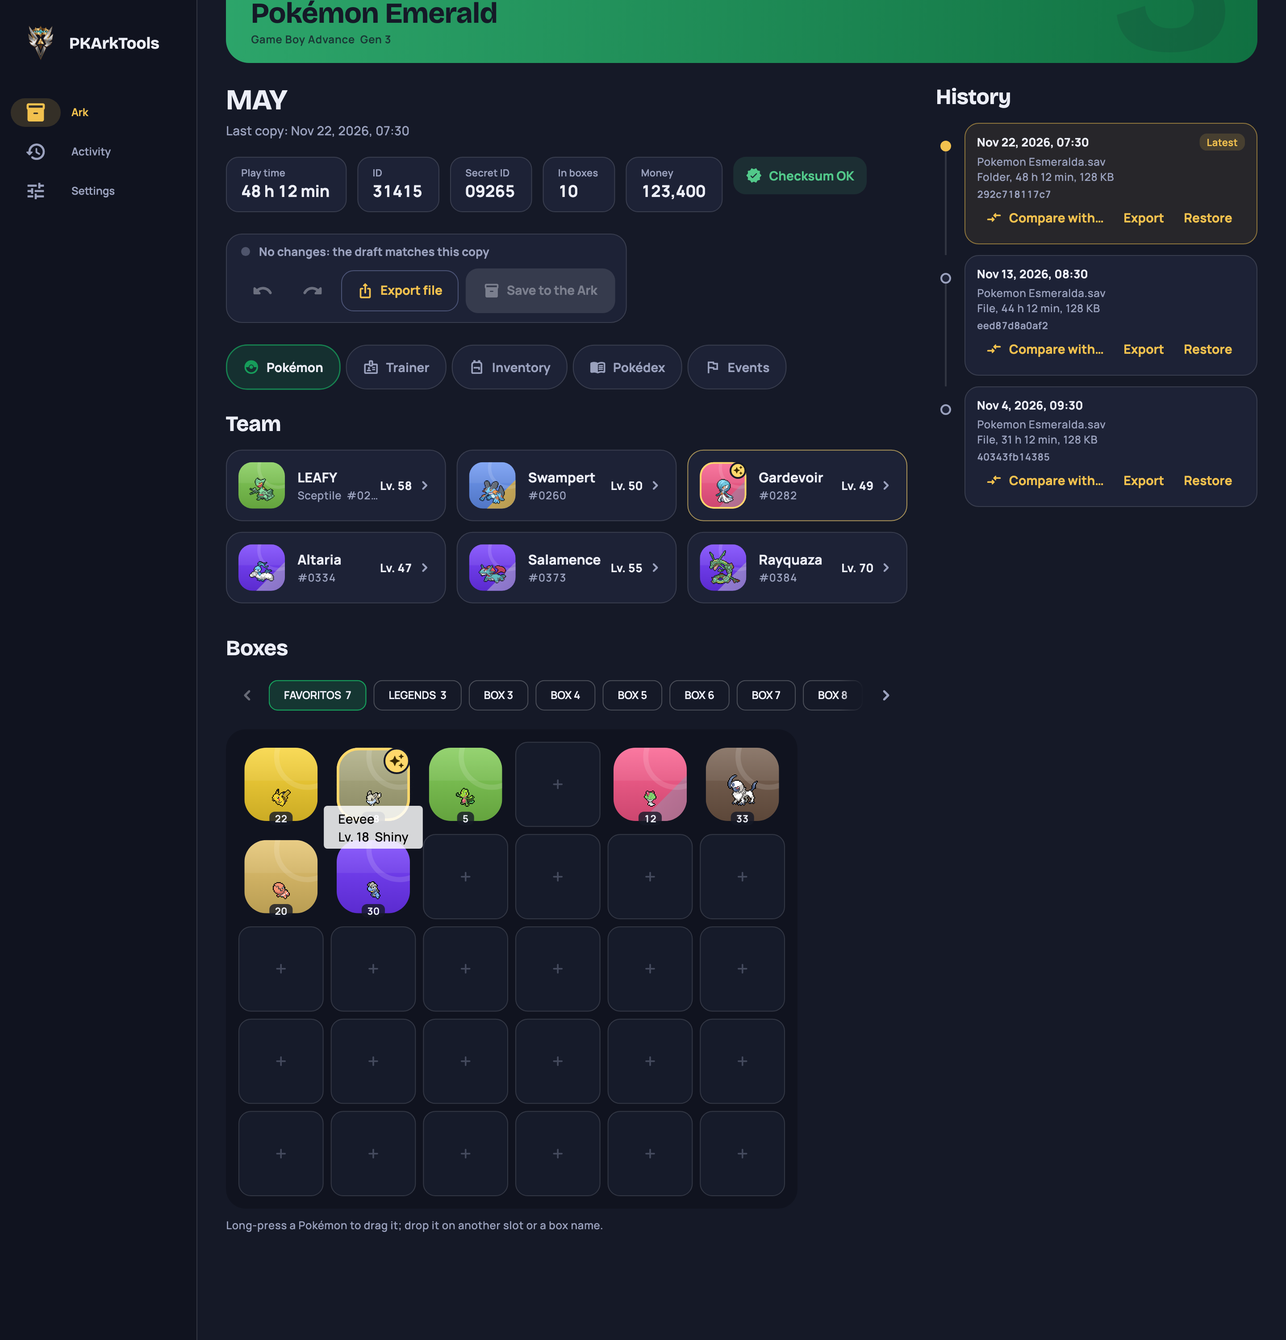
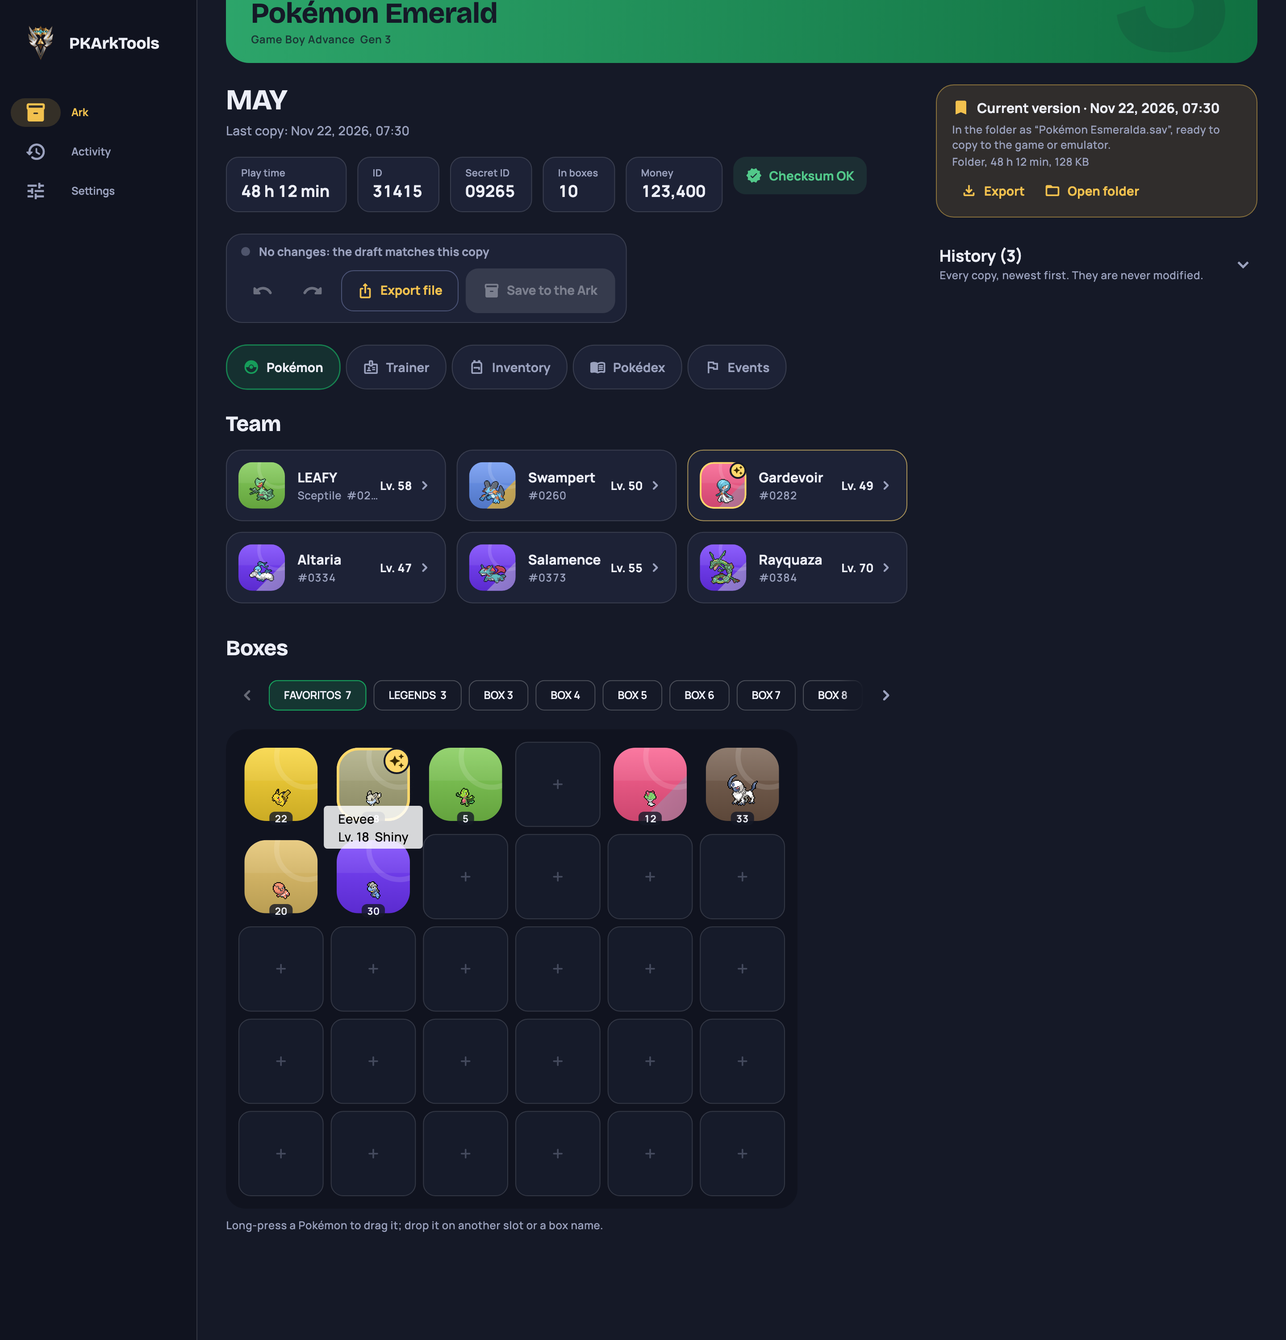
Docs: estructura del Arca con última versión e historial, carpetas de juegos y bandeja
Guía del Arca (la carpeta por dentro, tabla de nombres por juego, bandeja
de entrada, restaurar), primeros pasos con el paso opcional de carpetas de
juegos, arquitectura, seguridad de datos, READMEs y CHANGELOG (Unreleased).
Capturas en inglés regeneradas offscreen y en el emulador headless.

diff --git a/docs/usuario/arca.md b/docs/usuario/arca.md
@@ -61,15 +61,30 @@ origen, cintas).
   <img src="../screenshots/ios/v2_pro_05_ficha_iconos.png" width="160" alt="Ficha en iPhone">
 </p>
 
-## Historial
+## Versión actual e historial
 
-Cada importación, edición guardada o restauración crea una **copia nueva e
-inmutable** con fecha, origen (importación, edición, restauración) y una nota
-opcional. Desde el historial puedes, para cada copia:
+En la ficha de la partida, arriba (en el teléfono, antes del equipo; en
+escritorio, en la columna derecha) está la **versión actual**: «Versión actual
+· <fecha>», con el nombre del archivo que la contiene en la carpeta y dos
+botones:
 
-* **Exportar archivo**: escribe un archivo listo para el juego o el emulador
-  conservando su contenedor. Antes de entregarlo se relee y se compara
+* **Exportar** escribe ese archivo con el nombre que espera el juego (`main`,
+  `Pokémon Esmeralda.sav`…). Antes de entregarlo se relee y se compara
   (checksums, entrenador, equipo, cajas, inventario, Pokédex y eventos).
+* **Abrir carpeta** abre la carpeta de la partida en el explorador (escritorio)
+  o muestra su ruta dentro del Arca para copiarla (Android, iPhone).
+
+<p>
+  <img src="../screenshots/v2/mac_42_version_actual.png" width="560" alt="Versión actual destacada y historial plegado">
+  <img src="../screenshots/android/v2_42_version_actual.png" width="180" alt="Versión actual en Android">
+</p>
+
+Debajo, **plegado**, el **Historial (N)**: cada importación, edición guardada
+o restauración es una **copia nueva e inmutable** con fecha, origen
+(importación, edición, bandeja de entrada, restaurada…) y una nota opcional.
+Para cada copia:
+
+* **Exportar**: el archivo de esa copia, con su fecha en el nombre.
 * **Restaurar**: ver más abajo.
 * **Comparar con…**: ver más abajo.
 
@@ -91,10 +106,77 @@ después) o se movieron de hueco, inventario y Pokédex.
 
 ## Restaurar
 
-**Restaurar** escribe la copia elegida en la **ubicación original** del save
-(la carpeta de la que se importó, si la app conserva el permiso). Antes de
-escribir, el archivo que hay en ese sitio **se guarda primero en el Arca**, así
-que restaurar nunca pierde datos.
+**Restaurar** convierte una copia antigua en la versión actual: crea una
+**entrada nueva** en el historial con su contenido (origen «Restaurada» y una
+nota con la fecha de la copia original) y actualiza el archivo de la última
+versión. El historial nunca se reescribe: puedes volver a cualquier punto.
+
+Si la copia se importó de un sitio al que la app aún tiene acceso, el diálogo
+ofrece además **Restaurar y escribir en el original**: antes de escribir ahí,
+lo que haya en ese sitio **se guarda primero en el Arca**, así que nunca se
+pierde nada.
+
+## La carpeta por dentro
+
+```
+PKArkTools/<Juego>/<Entrenador (TID)>/
+  main                      ← ÚLTIMA versión, con el nombre que usa el juego
+  ultima.json               ← qué copia del historial es la última (derivado)
+  historial/
+    2026-11-22_175258_a1fa22cf.sav   (+ .json)   ← todas las copias, inmutables
+```
+
+* **El historial es la fuente de verdad.** El archivo de la última versión es
+  una copia derivada: se escribe de forma atómica (temporal + renombrar) cada
+  vez que entra una copia más nueva, y si falta o se queda atrás se regenera
+  desde el historial al reindexar.
+* **Nombre por juego.** Es el nombre con el que Checkpoint/JKSM y los
+  emuladores esperan el save:
+
+  | Juego | Archivo de la última versión |
+  |---|---|
+  | Espada/Escudo, Leyendas Arceus, Escarlata/Púrpura, Leyendas Z-A | `main` |
+  | Diamante Brillante / Perla Reluciente | `SaveData.bin` |
+  | Let's Go, Pikachu! / Eevee! | `savedata.bin` |
+  | X/Y, Rubí Omega/Zafiro Alfa, Sol/Luna, Ultrasol/Ultraluna (3DS) | `main` |
+  | Game Boy, GBA y DS | `<Juego>.<ext>`: `.sav`, o el contenedor original si es `.dsv` (DeSmuME/DraStic), `.srm` (RetroArch), `.sa1`, `.fla`, `.dat` o `.bin` |
+
+  Si un mismo entrenador tiene copias de contenedores distintos (por ejemplo
+  `.sav` de melonDS y `.dsv` de DeSmuME), cada uno tiene su archivo.
+* **Si reemplazas el archivo a mano** (por ejemplo, copias encima el `main`
+  recién sacado de la consola), la app lo detecta al reindexar porque su
+  SHA-256 no está en el historial: la ficha muestra «El archivo principal
+  cambió fuera de la app» con **Guardar como nueva copia**, que lo pasa al
+  historial como versión actual. Hasta entonces la app no lo toca; nunca lo
+  borra. La lista también está en **Ajustes › Carpeta del Arca**.
+* **Varios dispositivos.** El historial no choca (nombres únicos). La última
+  versión se recalcula desde la copia más nueva; si otro dispositivo ya
+  escribió una más nueva cuyo historial aún no ha llegado, se espera sin tocar
+  nada. Las «copias en conflicto» del archivo (`main (1)`, `conflicted copy`,
+  `.icloud`) se retiran solas si su contenido está en el historial; si no, se
+  ofrecen para adoptar.
+
+## Bandeja de entrada
+
+Cada carpeta de juego (`PKArkTools/<Juego>/`, creada por la app o a mano con
+el mismo nombre) es una bandeja de entrada. Deja ahí un save suelto, sin
+renombrarlo, y al abrir la app, al volver a ella, al reindexar o (en
+escritorio) en cuanto aparece:
+
+1. Se comprueba que es un save de **ese juego**.
+2. Se guarda como **copia nueva** en `<Entrenador (TID)>/historial/` (origen
+   «Bandeja de entrada») y pasa a ser la **última versión**.
+3. Con la copia verificada por su SHA-256, el archivo suelto **se retira** de
+   la bandeja (se mueve, no se copia). Si ese contenido ya estaba en el
+   historial, la bandeja se vacía sin crear otra copia.
+
+Un archivo que aún se está copiando o sincronizando espera unos segundos; los
+temporales y marcadores de la nube (`.tmp`, `.icloud`…) se ignoran. Si el save
+**no se puede leer**, o es **de otro juego**, se queda donde está y la app lo
+avisa (y en **Ajustes › Carpeta del Arca › Bandeja de entrada**, con **Mover a
+<juego>** para el segundo caso).
+
+<img src="../screenshots/v2/mac_43_ajustes_arca.png" width="560" alt="Ajustes del Arca: estructura, bandeja y principales cambiados">
 
 ## Exportar y restaurar el Arca completa (zip)
 
@@ -115,8 +197,8 @@ emulador no se tocan. Si quieres conservarlas, exporta antes el zip del Arca.
 
 ## Saves sueltos en la carpeta
 
-Si copias un save a mano en cualquier subcarpeta del Arca, Ajustes lo ofrece
-para **Adoptar**: se detecta el juego, se coloca en su sitio con su `.json`, se
+Si copias un save a mano en otra subcarpeta del Arca (fuera de la bandeja de
+un juego), Ajustes lo ofrece para **Adoptar**: se detecta el juego, se coloca en su sitio con su `.json`, se
 verifica y solo entonces se retira el suelto. **Adoptar todos** hace lo mismo
 con todos.
 

diff --git a/docs/usuario/primeros-pasos.md b/docs/usuario/primeros-pasos.md
@@ -8,11 +8,23 @@ ahí como archivos normales, legibles sin la app:
 ```
 <carpeta elegida>/PKArkTools/
   README.txt                                   explica la estructura
-  Pokémon Esmeralda/MAY (12345)/
-    2026-11-20_183042_3fa9c2d1.sav             la copia, byte a byte
-    2026-11-20_183042_3fa9c2d1.sav.json        SHA-256, juego, entrenador, TID/SID,
+  Pokémon Esmeralda/                           carpeta del juego (y bandeja de entrada)
+    LEEME.txt                                  qué save dejar aquí (opcional)
+    MAY (12345)/
+      Pokémon Esmeralda.sav                    LA ÚLTIMA VERSIÓN, lista para el juego
+      ultima.json                              qué copia del historial es la última
+      historial/
+        2026-11-20_183042_3fa9c2d1.sav         cada copia, byte a byte (inmutable)
+        2026-11-20_183042_3fa9c2d1.sav.json    SHA-256, juego, entrenador, TID/SID,
                                                horas, origen, notas, dispositivo
 ```
+
+En cada carpeta de entrenador, **el archivo de arriba es siempre la última
+versión** con el nombre que espera el juego (`main` en Switch y 3DS,
+`SaveData.bin` en Diamante Brillante / Perla Reluciente, `savedata.bin` en
+Let's Go, `<Juego>.sav` / `.dsv` / `.srm`… en GB, GBA y DS): cópialo tal cual
+al juego o al emulador. Todo lo anterior queda en `historial/`. Más detalles en
+[El Arca › La carpeta por dentro](arca.md#la-carpeta-por-dentro).
 
 <p>
   <img src="../screenshots/v2/mac_01_onboarding_logo.png" width="640" alt="Bienvenida en escritorio">
@@ -34,14 +46,41 @@ ahí como archivos normales, legibles sin la app:
   <img src="../screenshots/33_cambiar_carpeta.png" width="380" alt="Cambiar de carpeta: mover o copiar">
 </p>
 
-## 2. Varios dispositivos
+## 2. Carpetas de tus juegos (opcional)
+
+Justo después de elegir la carpeta, la app pregunta **«¿Quieres crear las
+carpetas de tus juegos?»**, para que sepas dónde dejar cada save:
+
+* **Sí, todos los juegos** crea `PKArkTools/<Juego>/` para todos los juegos
+  soportados, cada una con un `LEEME.txt` corto que dice qué archivo dejar y
+  con qué nombre suele venir (Switch: `main` de JKSM/Checkpoint o del
+  emulador; 3DS: `main` de Checkpoint; DS: `.sav`/`.dsv`; GBA: `.sav`).
+* **Elegir juegos…** abre un selector con casillas: todos, ninguno, los que ya
+  tienes en el Arca, por plataforma o por generación.
+* **Ahora no** no crea nada y no vuelve a preguntar. Puedes hacerlo cuando
+  quieras en **Ajustes › Carpeta del Arca › Crear carpetas de juegos**.
+
+<p>
+  <img src="../screenshots/v2/mac_40_carpetas_juegos_pregunta.png" width="420" alt="Pregunta: crear las carpetas de los juegos">
+  <img src="../screenshots/v2/mac_41_carpetas_juegos_selector.png" width="420" alt="Selector de carpetas de juegos">
+</p>
+
+Las carpetas de juego son también una **bandeja de entrada**: deja un save
+suelto en `PKArkTools/<Juego>/` (sin renombrarlo) y al abrir la app se recoge
+solo. Ver [El Arca › Bandeja de entrada](arca.md#bandeja-de-entrada).
+
+## 3. Varios dispositivos
 
 No hay cuentas ni inicio de sesión. Si la carpeta del Arca está en un servicio
 que sincroniza (iCloud Drive, Google Drive, OneDrive, Dropbox, Syncthing…),
 todos tus dispositivos comparten el mismo Arca:
 
-* Cada copia es un archivo con nombre único (fecha + hash) que **nunca se
-  sobrescribe**, así que dos dispositivos no pueden pisarse.
+* Cada copia del historial es un archivo con nombre único (fecha + hash) que
+  **nunca se sobrescribe**, así que dos dispositivos no pueden pisarse. El
+  archivo de la última versión se recalcula desde el historial: si dos
+  dispositivos lo escriben a la vez, gana la copia más nueva y las «copias en
+  conflicto» que deje la nube (`main (1)`…) se retiran solas si su contenido ya
+  está en el historial.
 * Al abrir la app y al volver a primer plano se revisa la carpeta
   (reindexado incremental). En escritorio, además, se vigilan los cambios.
   También puedes pulsar **Ajustes › Reindexar**.
@@ -52,7 +91,7 @@ todos tus dispositivos comparten el mismo Arca:
 Sugerencias por plataforma: Android → Google Drive o Documentos; iOS/macOS →
 iCloud Drive; Windows → OneDrive; Linux → Syncthing.
 
-## 3. Prueba con partidas de ejemplo
+## 4. Prueba con partidas de ejemplo
 
 Con el Arca vacía (o desde Ajustes) pulsa **Probar con partidas de ejemplo**:
 se crean saves sintéticos válidos de varias generaciones, sin datos reales ni
@@ -60,7 +99,7 @@ contenido con copyright. Es la forma más rápida de ver el editor.
 
 <img src="../screenshots/09_arca_vacia.png" width="480" alt="Arca vacía con partidas de ejemplo">
 
-## 4. Si se pierde el acceso a la carpeta
+## 5. Si se pierde el acceso a la carpeta
 
 Si el sistema retira el permiso (bookmark caducado, permiso revocado en Ajustes
 del sistema, unidad desconectada), la app muestra una pantalla para
@@ -69,11 +108,17 @@ se borra nada.
 
 <img src="../screenshots/34_acceso_perdido.png" width="380" alt="Acceso perdido a la carpeta">
 
-## 5. Versiones anteriores
+## 6. Versiones anteriores
 
 Si usabas una versión con el Arca interna (SQLite + blobs en
 `Documentos/PKArkTools/arca`), la app la copia a la carpeta elegida
 conservando fechas, orígenes y notas. Solo si todas las copias se verifican,
 la carpeta antigua se aparta a `.arca-anterior` (no se borra).
+
+Si tu carpeta del Arca es de PKArkTools 0.1.0 (copias sueltas
+`fecha_hash.sav` en la carpeta del entrenador), al abrirla la app las **mueve
+solas a `historial/`** y genera el archivo de la última versión. Cada copia se
+verifica por SHA-256 antes de retirar la original; si se corta a mitad, la
+siguiente vez termina el trabajo sin duplicar ni perder nada.
 
 Siguiente: [Importar saves](importar.md).

diff --git a/docs/arquitectura.md b/docs/arquitectura.md
@@ -84,16 +84,27 @@ reconstruir.
 
 | Clase (`lib/data/folder/`) | Papel |
 |---|---|
-| `ArcaLayout` | Nombres y rutas: `<Juego>/<Entrenador (TID)>/<fecha>_<hora>_<sha8>.<ext>` + `.json`, patrones de copias gestionadas, conflictos de nube e ignorados. |
-| `ArcaFolder` | Escribe copias (temporal + rename, `.json` después), lista, verifica SHA-256, detecta problemas y saves sueltos. |
-| `FolderFs` | Abstracción de sistema de archivos: `IoFolderFs` (`dart:io`), `SafFolderFs` (Android, por *method channel*) y `MemoryFolderFs` (tests y capturas). |
+| `ArcaLayout` | Nombres y rutas: `<Juego>/<Entrenador (TID)>/historial/<fecha>_<hora>_<sha8>.<ext>` + `.json`; nombre del archivo principal por juego (`mainFileName`); patrones de copias gestionadas, conflictos de nube e ignorados. |
+| `ArcaFolder` | Escribe copias (temporal + rename, `.json` después), lista, verifica SHA-256, detecta problemas, saves sueltos, `ultima.json` y conflictos. |
+| `ArcaMainFiles` | Mantiene el archivo principal de cada carpeta de entrenador como copia derivada de la entrada más reciente del historial: lo escribe con `writeReplace` (atómico), detecta el reemplazado a mano (SHA-256 fuera del historial), espera si otro dispositivo va por delante (`ultima.json` más nuevo) y retira copias de conflicto con contenido conocido. |
+| `ArcaGameFolders` | Carpetas por juego opcionales con `LEEME.txt`; también identifican la bandeja de entrada. |
+| `FolderFs` | Abstracción de sistema de archivos: `IoFolderFs` (`dart:io`), `SafFolderFs` (Android, por *method channel*; `treeReplace` en `MainActivity.kt` para los derivados) y `MemoryFolderFs` (tests y capturas). `writeNew` nunca sobrescribe (historial); `writeReplace` reemplaza de forma atómica (principal, `ultima.json`, README). |
 | `FolderAccess` | Elegir/abrir la carpeta y conservar el permiso: bookmarks con *security scope* (iOS/macOS, en `AppDelegate.swift` / `MainFlutterWindow.swift`), SAF con `takePersistableUriPermission` (Android, `MainActivity.kt`), ruta directa (Windows/Linux). |
-| `ArcaMigration` | Migra el Arca interna antigua y mueve/copia entre carpetas con verificación. |
+| `ArcaMigration` | Migra el Arca interna antigua, pasa las copias sueltas de 0.1.0 a `historial/` (idempotente, verificando cada una antes de retirar la original) y mueve/copia entre carpetas con verificación. |
 
 `ArcaRepository` (`lib/data/arca_repository.dart`) une todo: importar,
 reindexar (incremental, con *watcher* en escritorio y al volver a primer
-plano), adoptar, guardar ediciones, fijar versión, eliminar y exportar/restaurar
-el zip (`arca_archive.dart`).
+plano), migrar al diseño con `historial/`, recalcular los archivos
+principales, recoger la bandeja de entrada, adoptar, guardar ediciones,
+restaurar como versión actual, fijar versión, eliminar y exportar/restaurar el
+zip (`arca_archive.dart`).
+
+Orden de un reindexado: listar → (migrar a `historial/` si hace falta, sin
+cambiar los ids del índice) → indexar copias nuevas y quitar las que faltan →
+`ArcaMainFiles.sync` → bandeja de entrada (lo recogido provoca otra pasada).
+El índice local (drift, esquema 4) ya no exige `(partida, sha256)` único: una
+restauración es una entrada propia aunque repita contenido; la deduplicación
+de importaciones la hace el repositorio.
 
 ### Acceso a archivos por plataforma
 

diff --git a/CHANGELOG.md b/CHANGELOG.md
@@ -9,6 +9,27 @@ que la siguen son los hitos internos de desarrollo que llevaron a ella.
 ## [Unreleased]
 
 ### Añadido
+- **Última versión a la vista**: cada carpeta de entrenador del Arca tiene el
+  archivo de la última versión con el nombre que usa el juego (`main` en
+  Switch y 3DS, `SaveData.bin` en DBPR, `savedata.bin` en Let's Go,
+  `<Juego>.sav`/`.dsv`/`.srm`… en GB, GBA y DS), un `ultima.json` derivado y
+  las copias inmutables en `historial/`. El historial es la fuente de verdad:
+  el principal se escribe de forma atómica (también por SAF) y se regenera
+  desde él. Ver [El Arca › La carpeta por dentro](docs/usuario/arca.md#la-carpeta-por-dentro).
+- **Principal cambiado a mano**: se detecta al reindexar (SHA-256 fuera del
+  historial), nunca se pisa ni se borra y se ofrece **Guardar como nueva
+  copia**.
+- **Ficha de la partida**: «Versión actual · fecha» destacada con
+  **Exportar** (con el nombre del juego) y **Abrir carpeta**; el historial
+  queda plegado debajo. Ajustes del Arca explica la estructura.
+- **Carpetas por juego (opcional)**: tras elegir la carpeta se pregunta una
+  vez si crearlas (todos, elegir o ahora no); también en **Ajustes › Crear
+  carpetas de juegos**, con selector por generación, plataforma o los juegos
+  que ya tienes. Cada una lleva un `LEEME.txt` con qué save dejar.
+- **Bandeja de entrada**: un save suelto en `PKArkTools/<Juego>/` se valida, se
+  guarda como copia nueva de su entrenador (pasa a ser la última versión) y se
+  retira tras verificar el hash; lo ilegible o de otro juego se queda con
+  aviso y **Mover a <juego>**.
 - **Demo video**: vídeo de demostración de 40 s
   ([`docs/media/pkarktools-demo.mp4`](docs/media/pkarktools-demo.mp4)) con
   vista previa animada al principio del README. Se graba en el emulador
@@ -16,6 +37,19 @@ que la siguen son los hitos internos de desarrollo que llevaron a ella.
   (`integration_test/demo_video_test.dart`, `tool/record_demo_video.sh`) y se
   monta con ffmpeg (`tool/make_demo_video.sh`), también en versiones vertical
   y cuadrada en español para redes.
+
+### Cambiado
+- **Restaurar** crea una entrada nueva «Restaurada» en el historial y
+  actualiza la última versión (el historial nunca se reescribe); escribir
+  también en el archivo original es una opción del mismo diálogo.
+- **Migración automática** de las carpetas de 0.1.0: las copias sueltas
+  `fecha_hash.*` pasan a `historial/` verificando cada SHA-256 antes de retirar
+  la original; idempotente y segura ante cortes. El `README.txt` de la raíz se
+  actualiza.
+- Las copias de conflicto de la nube del archivo principal (`main (1)`,
+  `conflicted copy`) se retiran si su contenido ya está en el historial.
+- Índice local (drift) a esquema 4: sin la restricción única
+  `(partida, sha256)`.
 
 ## [0.1.0] — 2026-11-23
 

diff --git a/docs/seguridad-datos.md b/docs/seguridad-datos.md
@@ -7,8 +7,12 @@
    por iniciativa tuya es **Restaurar**, y antes de escribir guarda en el Arca
    lo que hubiera en ese sitio. **Exportar** siempre escribe un archivo nuevo
    donde tú elijas.
-2. **Copias inmutables.** Cada copia es un archivo con nombre único
-   (`<fecha>_<hora>_<8 hex del SHA-256>.<ext>`) más su `.json` de metadatos.
+2. **Copias inmutables.** Cada copia del `historial/` es un archivo con nombre
+   único (`<fecha>_<hora>_<8 hex del SHA-256>.<ext>`) más su `.json` de
+   metadatos. El archivo de la última versión (`main`, `<Juego>.sav`…) y
+   `ultima.json` son derivados: se regeneran desde el historial y la app solo
+   los reescribe si su contenido ya está en el historial (uno cambiado a mano
+   se conserva hasta que lo guardes como copia nueva).
    Nada se sobrescribe: si el nombre está ocupado por otro contenido se añade
    un sufijo. Editar y guardar crea otra copia; la anterior queda en el
    historial. Lo único que borra copias es **Eliminar del Arca**, siempre con
@@ -19,7 +23,8 @@
    medias nunca parece completa.
 4. **Integridad comprobada.** El `.json` guarda el SHA-256 completo y se
    comprueba cada vez que se lee la copia. Mover o copiar el Arca, migrar la
-   versión antigua, adoptar saves sueltos y restaurar un zip verifican el
+   versión antigua, pasar al diseño con `historial/`, recoger la bandeja de
+   entrada, adoptar saves sueltos y restaurar un zip verifican el
    SHA-256 en el destino antes de dar nada por hecho (y, al mover, antes de
    retirar el origen).
 5. **Verificación post-exportación.** Al exportar o guardar en el Arca, el

diff --git a/README.es.md b/README.es.md
@@ -54,8 +54,13 @@ comparten.
 ## Funcionalidades
 
 **Arca y copias versionadas**
-* Copias inmutables con nombre `Juego/Entrenador (ID)/fecha_hora_hash.sav`,
-  sin duplicados (SHA-256) y verificadas en cada lectura.
+* Una carpeta por partida con la **última versión a la vista**, con el nombre
+  que espera el juego (`main`, `SaveData.bin`, `Pokémon Esmeralda.sav`…) y
+  lista para copiar, más un `historial/` de copias inmutables
+  (`fecha_hora_hash.sav`), sin duplicados (SHA-256) y verificadas en cada
+  lectura.
+* **Carpetas por juego** opcionales que hacen de bandeja de entrada: deja un
+  save en `PKArkTools/<Juego>/` y se archiva solo con su entrenador.
 * Historial por partida con origen (archivo, carpeta, editor, ejemplo), notas
   y marca de «más reciente»; restaurar o exportar cualquier copia; actividad.
 * **Comparar copias**: qué cambió entre dos copias — entrenador, Pokémon que

diff --git a/README.md b/README.md
@@ -52,8 +52,12 @@ Drive, OneDrive, Dropbox or Syncthing and all your devices share it.
 ## Features
 
 **Ark and versioned backups**
-* Immutable copies named `Game/Trainer (ID)/date_time_hash.sav`, deduplicated
-  by SHA-256 and verified on every read.
+* One folder per playthrough with the **latest version on top**, named the way
+  the game expects (`main`, `SaveData.bin`, `Emerald.sav`…) and ready to copy
+  back, plus a `historial/` of immutable copies (`date_time_hash.sav`),
+  deduplicated by SHA-256 and verified on every read.
+* Optional **game folders** that double as an inbox: drop a save in
+  `PKArkTools/<Game>/` and it is filed under its trainer automatically.
 * History per playthrough with origin (file, folder, editor, demo), notes and
   a "latest" marker; restore or export any copy; activity log.
 * **Compare copies**: what changed between two snapshots — trainer, Pokémon

diff --git a/docs/usuario/faq.md b/docs/usuario/faq.md
@@ -21,7 +21,7 @@ No. La app solo lee saves; los sprites se descargan bajo demanda
 
 **¿Puedo usar el Arca en el móvil y en el ordenador a la vez?**
 Sí, si la carpeta está en un servicio que sincroniza. Ver
-[Primeros pasos](primeros-pasos.md#2-varios-dispositivos).
+[Primeros pasos](primeros-pasos.md#3-varios-dispositivos).
 
 **¿Un Pokémon sin avisos es legal?**
 No necesariamente; la legalidad es una ayuda. Ver
